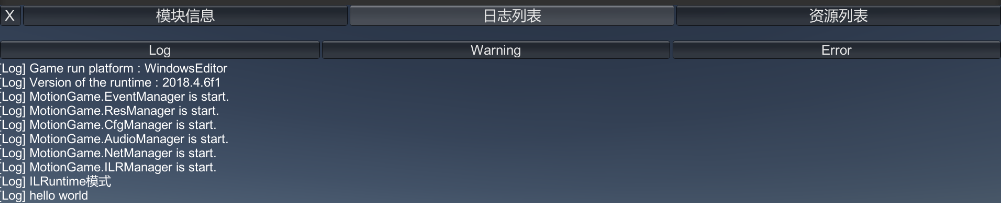
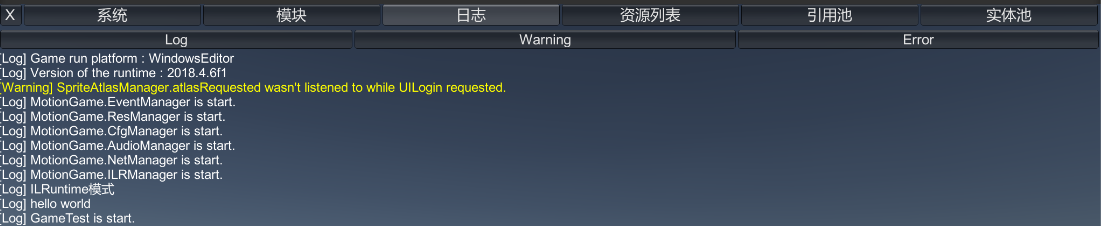
Update document

Changed region(s): [[0.0, 0.0, 1.0, 1.0]]

diff --git a/Docs/NetManager.md b/Docs/NetManager.md
@@ -1,37 +1,2 @@
 
-定义网络包解析器
-```C#
-using System;
-using MotionEngine.Net;
-
-namespace MotionGame
-{
-  public class NetCustomPackageParser : NetPackageParser
-  {
-    public override void Encode(System.Object msg)
-    {
-      //网络消息编码
-    }
-    public override void Decode(List<System.Object> msgList)
-    {
-      //网络消息解码
-    }
-  }
-}
-```
-
-注册网络包解析器
-```C#
-using MotionGame;
-
-public class Test
-{
-  public void Start()
-  {
-    NetManager.Instance.SetPackageParseType(typeof(NetCustomPackageParser));
-  }
-}
-```
-
-更详细的教程请参考示例代码
-1. [MotionGame/Runtime/Game.Net/NetProtoPackageParser.cs](https://github.com/gmhevinci/MotionFramework/blob/master/Assets/MotionGame/Runtime/Game.Net/NetProtoPackageParser.cs)
+NetManager

diff --git a/Docs/Network.md b/Docs/Network.md
@@ -1,0 +1,37 @@
+
+定义网络包解析器
+```C#
+using System;
+using MotionEngine.Net;
+
+namespace MotionGame
+{
+  public class NetCustomPackageParser : NetPackageParser
+  {
+    public override void Encode(System.Object msg)
+    {
+      //网络消息编码
+    }
+    public override void Decode(List<System.Object> msgList)
+    {
+      //网络消息解码
+    }
+  }
+}
+```
+
+注册网络包解析器
+```C#
+using MotionGame;
+
+public class Test
+{
+  public void Start()
+  {
+    NetManager.Instance.SetPackageParseType(typeof(NetCustomPackageParser));
+  }
+}
+```
+
+更详细的教程请参考示例代码
+1. [MotionGame/Runtime/Game.Net/NetProtoPackageParser.cs](https://github.com/gmhevinci/MotionFramework/blob/master/Assets/MotionGame/Runtime/Game.Net/NetProtoPackageParser.cs)

diff --git a/Docs/DebugConsole.md b/Docs/DebugConsole.md
@@ -1,7 +1,7 @@
 
 控制台系统可以帮助开发者在游戏运行时显示一些关键数据或帮助调试游戏。
 
-框架默认自带几个控制台节点：模块信息，日志列表，资源列表
+框架默认自带几个控制台节点：系统，模块，日志，资源列表，引用池，实体池等
 ![image](https://github.com/gmhevinci/MotionFramework/raw/master/Docs/Image/img2.png)  
 
 定义自己的控制台节点  
@@ -24,6 +24,8 @@ namespace MotionGame
 	}
 }
 ```
+
+注意：定义完成后，运行游戏即可查看我们自定义的节点
 
 更详细的教程请参考示例代码
 1. [MotionEngine/Runtime/Game.Debug](https://github.com/gmhevinci/MotionFramework/blob/master/Assets/MotionGame/Runtime/Game.Debug)

diff --git a/Docs/ReferenceSystem.md b/Docs/ReferenceSystem.md
@@ -1,4 +1,4 @@
-定义类
+定义引用类
 ```C#
 using MotionEngine.Reference;
 
@@ -22,10 +22,17 @@ public class Test
 {
 	public void Start()
 	{
-		// 获取对象
-		ReferClass refer = ReferenceSystem.Spawn(typeof(ReferClass))
-		// 回收对象
-		ReferenceSystem.Release(refer)
+		// 获取对象方式1
+		{
+			ReferClass refer = ReferenceSystem.Spawn(typeof(ReferClass));
+			ReferenceSystem.Release(refer)
+		}
+
+		// 获取对象方式2
+		{
+			ReferClass refer = ReferenceSystem.Spawn<ReferClass>();
+			ReferenceSystem.Release(refer)
+		}
 	}
 }
 ```

diff --git a/README.md b/README.md
@@ -24,7 +24,13 @@ C# && .Net4.x
 4. **ReferenceSystem**  
 [引用池系统](https://github.com/gmhevinci/MotionFramework/blob/master/Docs/ReferenceSystem.md)
 
-5. **DebugConsole**  
+5. **AssetSystem**  
+[资源系统](https://github.com/gmhevinci/MotionFramework/blob/master/Docs/AssetSystem.md)
+
+6. **Network**  
+[网络系统](https://github.com/gmhevinci/MotionFramework/blob/master/Docs/Network.md)
+
+7. **DebugConsole**  
 [调试控制台](https://github.com/gmhevinci/MotionFramework/blob/master/Docs/DebugConsole.md)
 
 

diff --git a/Docs/PatchManager.md b/Docs/PatchManager.md
@@ -1,0 +1,2 @@
+
+PatchManager
